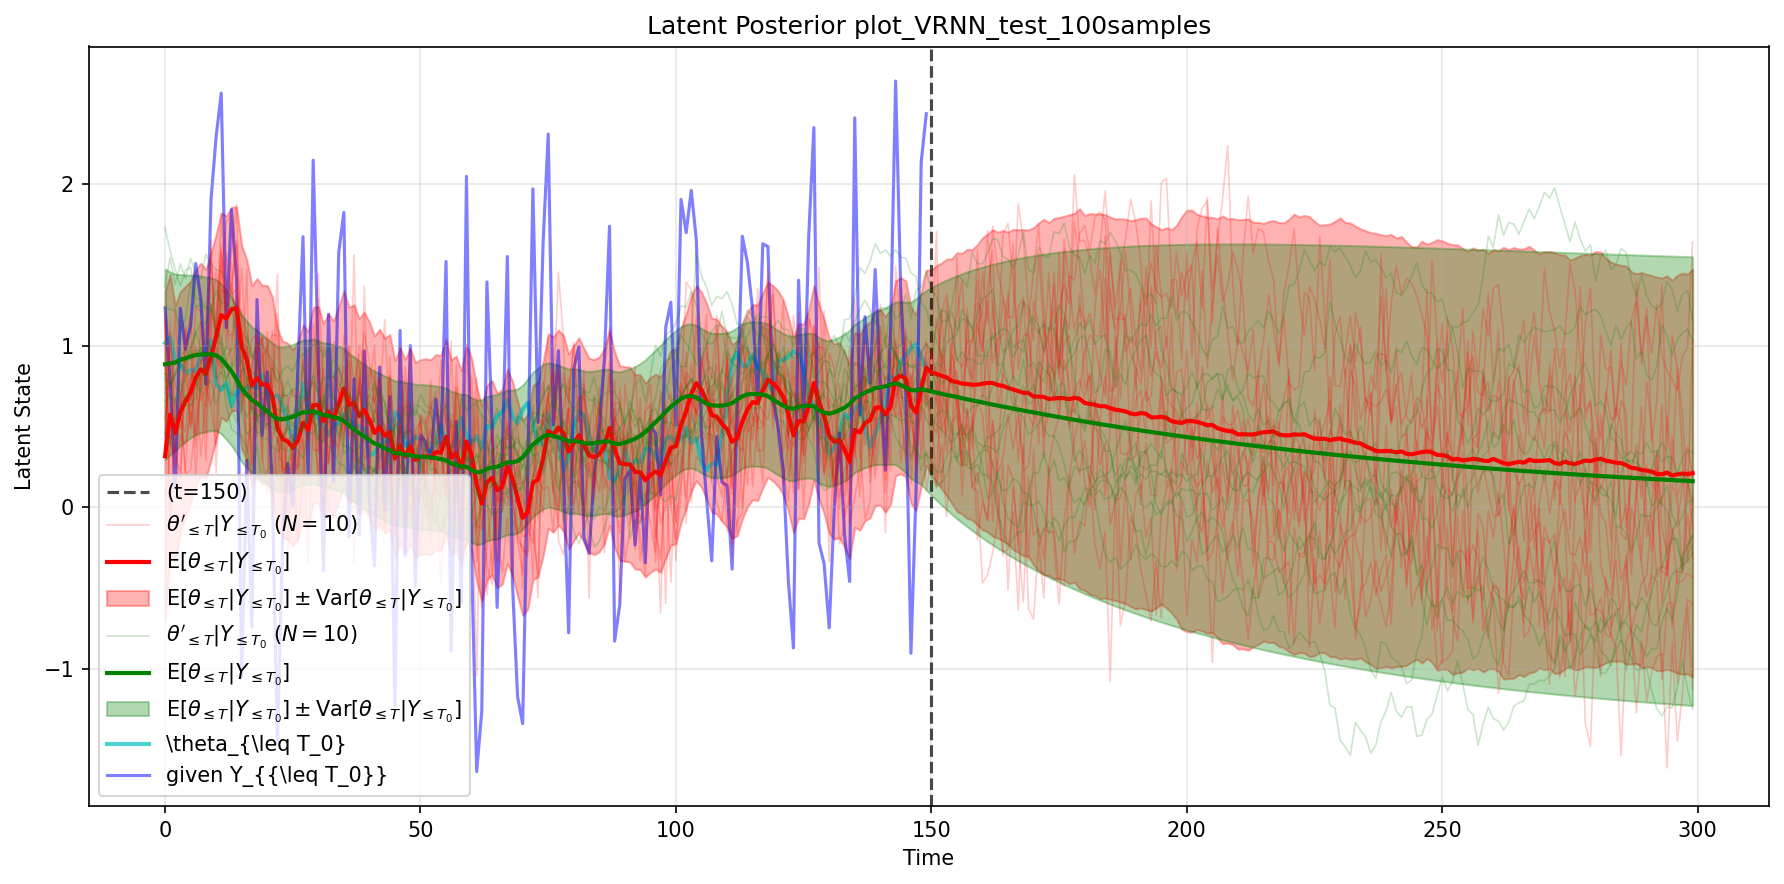
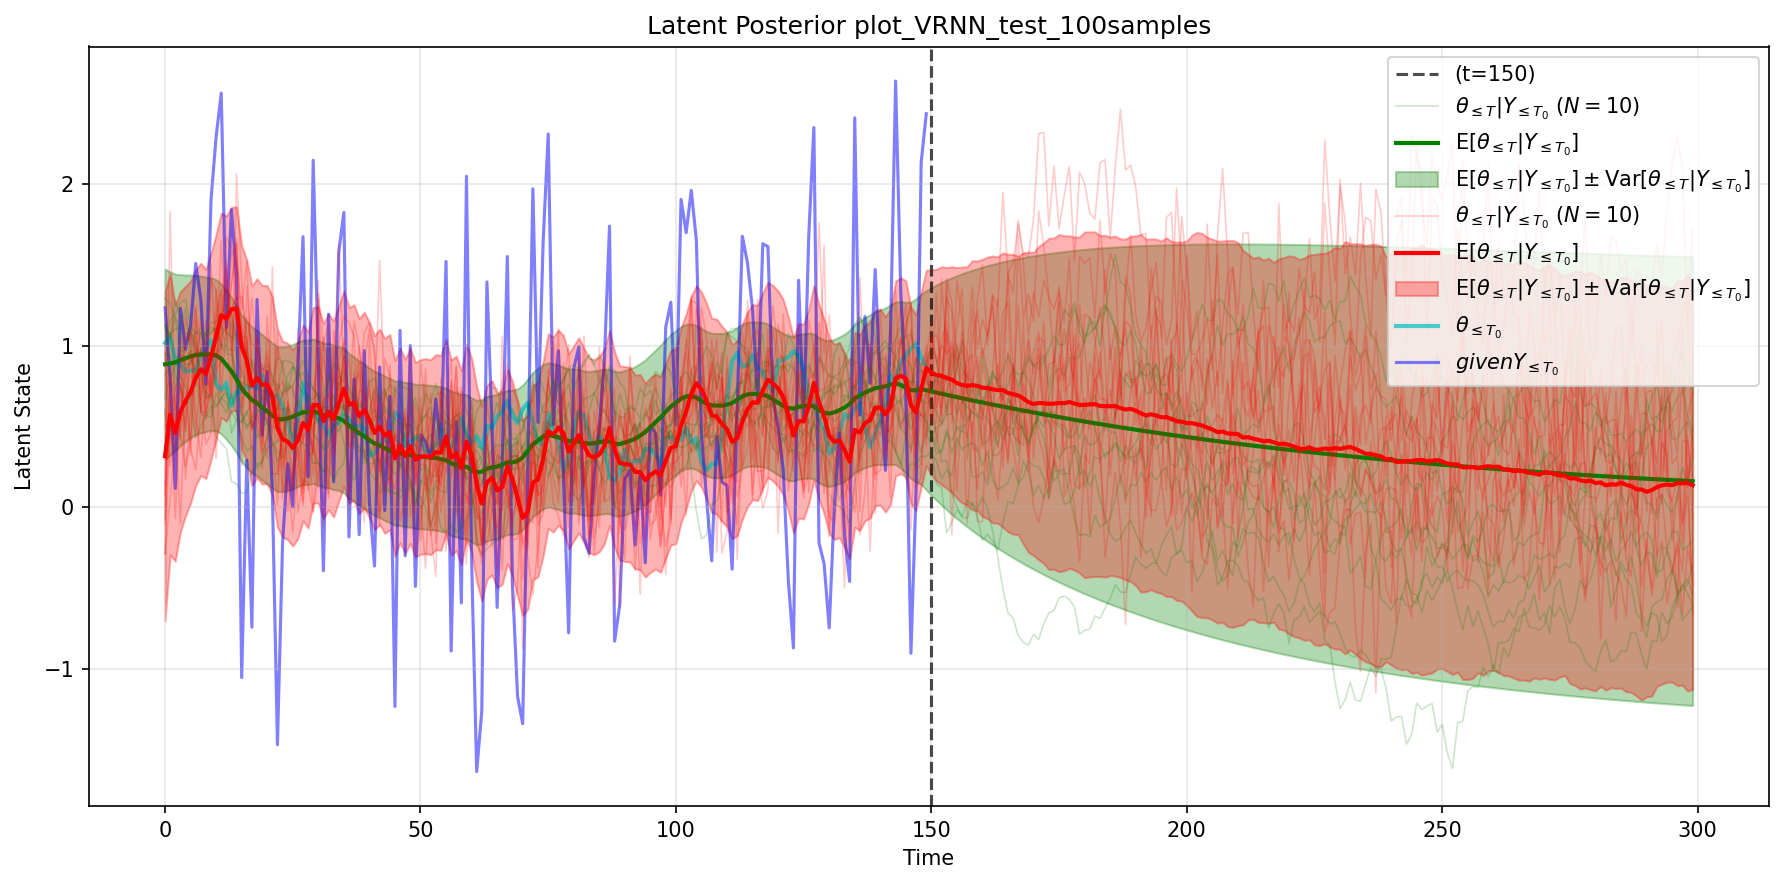
250930_eval

diff --git a/generative_ts/eval.py b/generative_ts/eval.py
@@ -8,95 +8,7 @@ from datetime import datetime
 
 def plot_posterior_y(model, save_path, epoch, model_name=None, dataset_path=None, idx=0, ratio=0.5, N_samples = 100):
 
-
-    # ---------------- 0) get model, data ----------------
-    if model_name is None:  model_name = model.__class__.__name__
-    if hasattr(model, 'eval'):  model.eval()
-
-    data_file = os.path.join(dataset_path, 'data.pth')
-    data = torch.load(data_file, weights_only=False)
-    Y_test, t_test = data['Y_test'], data.get('t_test', None)
-
-    y_sample = Y_test[idx]
-    t_sample = t_test[idx] if t_test is not None else np.arange(len(y_sample))
-
-    T = len(y_sample)
-    t_0 = int(ratio * T)
-
-    print(f"Sample {idx}: T_data={T}, t_0={t_0}, T={T}, N={N_samples}")
-
-
-    # ---------------- 1) call posterior ----------------
-    with torch.no_grad():
-        device = next(model.parameters()).device if hasattr(model, 'parameters') else 'cpu'
-        y_given = torch.tensor(y_sample[:t_0], dtype=torch.float32, device=device)
-
-        # Get data posterior model
-        config_path = os.path.join(dataset_path, 'config.json')
-        if dataset_path and 'ar1' in dataset_path.lower():
-            from .dataset.ar1 import AR1_ts
-            data_model = AR1_ts(config_path=config_path)
-        elif dataset_path and 'gp' in dataset_path.lower():
-            from .dataset.gp import GP_ts
-            data_model = GP_ts(config_path=config_path)
-
-        
-        y_model_input = y_given.unsqueeze(-1).unsqueeze(1) if y_given.dim() == 1 else y_given.unsqueeze(1) if y_given.dim() == 2 else y_given # Model input (T_0, 1, 1)
-        y_data_input = y_given.squeeze() if y_given.dim() > 1 else y_given # Data model inpur (T_0,)
-
-        post_model = model.posterior_y(y_model_input, T, N=N_samples)
-        post_data = data_model.posterior_y(y_data_input, T, N=N_samples)
-    
-
-    # ---------------- 2) make posterior plot ----------------   
-    plt.figure(figsize=(12, 6))
-    time_t_0 = np.arange(t_0) 
-    time_t_0_to_T = np.arange(t_0, T)
-    time_T = np.arange(T)
-    
-    # Y_{:t_0}
-    plt.plot(time_t_0, y_sample[:t_0], 'b-', linewidth=2, label='Data', alpha=0.5, zorder=3)
-    plt.axvline(x=t_0, color='black', linestyle='--', alpha=0.7, linewidth=1.5, label=f'(t={t_0})')
-    
-    for c, post in {'r' : post_model, 'g' : post_data}.items():
-
-        # Y'_{:T} | Y_{:t_0}
-        samples = post['x_samples']
-        for i in range(min(10, N_samples)):
-            plt.plot(time_T, samples[i].squeeze(), c, alpha=0.2, linewidth=0.8)
-        if N_samples > 0:   plt.plot([], [], c, alpha=0.2, linewidth=0.8, label=f"$Y'_{{\\leq T}} | Y_{{\\leq T_0}}$ ($N={min(10, N_samples)}$)")
-
-        # E[Y_{:T} | Y_{:t_0}]
-        mean_traj = post['mean_samples'].squeeze()
-        std_traj = post['var_samples'].squeeze()
-
-        plt.plot(time_T, mean_traj, c + '-', linewidth=2, label=f"$\\mathrm{{E}}[Y_{{\\leq T}} | Y_{{\\leq T_0}}]$")
-
-        # Var[Y_{:T} | Y_{:t_0}]
-        plt.fill_between(time_T,
-                        mean_traj - 2*std_traj,
-                        mean_traj + 2*std_traj,
-                        alpha=0.3, color=c, label=f"$\\mathrm{{E}}[Y_{{\\leq T}} | Y_{{\\leq T_0}}] \\pm \\text{{Var}}[Y_{{\\leq T}} | Y_{{\\leq T_0}}]$")
-    
-
-    plt.xlabel('Time')
-    plt.ylabel('Latent State')
-    plt.title(f'Posterior plot_{model_name}_{epoch}_{N_samples}samples')
-    plt.legend()
-    plt.grid(True, alpha=0.3)
-    try:    plt.tight_layout()
-    except Exception:   pass
-    
-    # Save
-    os.makedirs(save_path, exist_ok=True)
-    save_file = os.path.join(save_path, f'posterior_{model_name}_{epoch}_{N_samples}samples.png')
-    plt.savefig(save_file, dpi=150, bbox_inches='tight')
-    plt.close()
-
-
-
-
-def plot_posterior(model, save_path, epoch, model_name=None, dataset_path=None, idx=0, ratio=0.5, N_samples=100):
+    posts = {}
 
     # ---------------- 0) get model, data ----------------
     if model_name is None:  model_name = model.__class__.__name__
@@ -123,21 +35,129 @@ def plot_posterior(model, save_path, epoch, model_name=None, dataset_path=None, 
         device = next(model.parameters()).device if hasattr(model, 'parameters') else 'cpu'
         y_given = torch.tensor(y_sample[:t_0], dtype=torch.float32, device=device)
 
-        # Get data posterior model
-        config_path = os.path.join(dataset_path, 'config.json')
-        if dataset_path and 'ar1' in dataset_path.lower():
-            from .dataset.ar1 import AR1_ts
-            data_model = AR1_ts(config_path=config_path)
-        elif dataset_path and 'gp' in dataset_path.lower():
-            from .dataset.gp import GP_ts
-            data_model = GP_ts(config_path=config_path)
+        if model_name.lower().replace('_ts','') in ['vrnn', 'lode', 'ls4']:
+            # Get data posterior model
+            config_path = os.path.join(dataset_path, 'config.json')
+            if dataset_path and 'ar1' in dataset_path.lower():
+                from .dataset.ar1 import AR1_ts
+                data_model_name, data_model = 'AR1', AR1_ts(config_path=config_path)
+            elif dataset_path and 'gp' in dataset_path.lower():
+                from .dataset.gp import GP_ts
+                data_model_name, data_model = 'GP', GP_ts(config_path=config_path)
 
-        # Model input shape: (T_0, 1, 1) for LS4/VRNN/LatentODE
+            y_data_input = y_given.squeeze() if y_given.dim() > 1 else y_given # Data model input (T_0,)
+            post_data = data_model.posterior_y(y_data_input, T, N=N_samples)
+            posts[data_model_name.lower().replace('_ts','')] = post_data
+
         y_model_input = y_given.unsqueeze(-1).unsqueeze(1) if y_given.dim() == 1 else y_given.unsqueeze(1) if y_given.dim() == 2 else y_given # Model input (T_0, 1, 1)
-        y_data_input = y_given.squeeze() if y_given.dim() > 1 else y_given # Data model input (T_0,)
+        post_model = model.posterior_y(y_model_input, T, N=N_samples)
+        posts[model_name.lower().replace('_ts','')] = post_model
+    
 
+    # ---------------- 2) make posterior plot ----------------
+    plt.figure(figsize=(12, 6))
+    time_t_0 = np.arange(t_0)
+    time_t_0_to_T = np.arange(t_0, T)
+    time_T = np.arange(T)
+
+    # Conditioning boundary
+    plt.axvline(x=t_0, color='black', linestyle='--', alpha=0.7, linewidth=1.5, label=f'(t={t_0})')
+
+    for name, post in posts.items():
+
+        c = 'r' if name in ['vrnn', 'lode', 'ls4'] else 'g' if name in ['gp', 'ar1'] else 'b'
+
+        # Y'_{:T} | Y_{:t_0}
+        samples = post['x_samples']
+        for i in range(min(10, N_samples)):
+            plt.plot(time_T, samples[i].squeeze(), c, alpha=0.2, linewidth=0.8)
+        if N_samples > 0:   plt.plot([], [], c, alpha=0.2, linewidth=0.8, label=f"$Y'_{{\\leq T}} | Y_{{\\leq T_0}}$ ($N={min(10, N_samples)}$)")
+
+        # E[Y_{:T} | Y_{:t_0}]
+        mean_traj = post['mean_samples'].squeeze()
+        std_traj = post['var_samples'].squeeze()
+
+        plt.plot(time_T, mean_traj, c + '-', linewidth=2, label=f"$\\mathrm{{E}}[Y_{{\\leq T}} | Y_{{\\leq T_0}}]$")
+
+        # Var[Y_{:T} | Y_{:t_0}]
+        plt.fill_between(time_T,
+                        mean_traj - 2*std_traj,
+                        mean_traj + 2*std_traj,
+                        alpha=0.3, color=c, label=f"$\\mathrm{{E}}[Y_{{\\leq T}} | Y_{{\\leq T_0}}] \\pm \\text{{Var}}[Y_{{\\leq T}} | Y_{{\\leq T_0}}]$")
+
+    # Real theta (cyan solid line) - only up to t_0, behind everything
+    if theta_sample is not None:
+        plt.plot(time_t_0, theta_sample[:t_0], 'c-', linewidth=2, label=f'$\\theta_{{\\leq T_0}}$', alpha=0.7, zorder=1)
+
+    # Y data (blue solid line) - only up to t_0, behind everything
+    plt.plot(time_t_0, y_sample[:t_0], 'b-', linewidth=1.5, label=f'$given Y_{{\\leq T_0}}$', alpha=0.5, zorder=1)
+
+    plt.xlabel('Time')
+    plt.ylabel('Observation')
+    plt.title(f'Posterior plot_{model_name}_{epoch}_{N_samples}samples')
+    plt.legend()
+    plt.grid(True, alpha=0.3)
+    try:    plt.tight_layout()
+    except Exception:   pass
+    
+    # Save
+    os.makedirs(save_path, exist_ok=True)
+    save_file = os.path.join(save_path, f'posterior_{model_name}_{epoch}_{N_samples}samples.png')
+    plt.savefig(save_file, dpi=150, bbox_inches='tight')
+    plt.close()
+
+
+
+
+def plot_posterior(model, save_path, epoch, model_name=None, dataset_path=None, idx=0, ratio=0.5, N_samples=100):
+
+    posts = {}
+
+    # ---------------- 0) get model, data ----------------
+    if model_name is None:  model_name = model.__class__.__name__
+    if hasattr(model, 'eval'):  model.eval()
+
+    data_file = os.path.join(dataset_path, 'data.pth')
+    data = torch.load(data_file, weights_only=False)
+    Y_test = data['Y_test']
+    theta_test = data.get('theta_test', None)
+    t_test = data.get('t_test', None)
+
+    y_sample = Y_test[idx]
+    theta_sample = theta_test[idx] if theta_test is not None else None
+    t_sample = t_test[idx] if t_test is not None else np.arange(len(y_sample))
+
+    T = len(y_sample)
+    t_0 = int(ratio * T)
+
+    print(f"Sample {idx}: T_data={T}, t_0={t_0}, T={T}, N={N_samples}")
+
+
+    # ---------------- 1) call posterior ----------------
+    with torch.no_grad():
+        device = next(model.parameters()).device if hasattr(model, 'parameters') else 'cpu'
+        y_given = torch.tensor(y_sample[:t_0], dtype=torch.float32, device=device)
+
+        if model_name.lower().replace('_ts','') in ['vrnn', 'lode', 'ls4']:
+            # Get data posterior model
+            config_path = os.path.join(dataset_path, 'config.json')
+            if dataset_path and 'ar1' in dataset_path.lower():
+                from .dataset.ar1 import AR1_ts
+                data_model_name, data_model = 'AR1', AR1_ts(config_path=config_path)
+            elif dataset_path and 'gp' in dataset_path.lower():
+                from .dataset.gp import GP_ts
+                data_model_name, data_model = 'GP', GP_ts(config_path=config_path)
+            
+            
+            y_data_input = y_given.squeeze() if y_given.dim() > 1 else y_given # Data model input (T_0,)
+            post_data = data_model.posterior(y_data_input, T, N=N_samples)
+            posts[data_model_name.lower().replace('_ts','')] = post_data
+
+        
+        y_model_input = y_given.unsqueeze(-1).unsqueeze(1) if y_given.dim() == 1 else y_given.unsqueeze(1) if y_given.dim() == 2 else y_given # Model input (T_0, 1, 1)
         post_model = model.posterior(y_model_input, T, N=N_samples)
-        post_data = data_model.posterior(y_data_input, T, N=N_samples)
+        posts[model_name.lower().replace('_ts','')] = post_model
+    
 
 
     # ---------------- 2) make posterior plot ----------------
@@ -149,13 +169,15 @@ def plot_posterior(model, save_path, epoch, model_name=None, dataset_path=None, 
     # Conditioning boundary
     plt.axvline(x=t_0, color='black', linestyle='--', alpha=0.7, linewidth=1.5, label=f'(t={t_0})')
 
-    for c, post in {'r': post_model, 'g': post_data}.items():
+    for name, post in posts.items():
 
+        c = 'r' if name in ['vrnn', 'lode', 'ls4'] else 'g' if name in ['gp', 'ar1'] else 'b'
+        
         # z_{:T} | x_{:t_0}
         samples = post.get('z_samples')
         for i in range(min(10, N_samples)):
             plt.plot(time_T, samples[i].squeeze(), c, alpha=0.2, linewidth=0.8)
-        if N_samples > 0:   plt.plot([], [], c, alpha=0.2, linewidth=0.8, label=f"$\\theta'_{{\\leq T}} | Y_{{\\leq T_0}}$ ($N={min(10, N_samples)}$)")
+        if N_samples > 0:   plt.plot([], [], c, alpha=0.2, linewidth=0.8, label=f"$\\theta_{{\\leq T}} | Y_{{\\leq T_0}}$ ($N={min(10, N_samples)}$)")
 
         # E[z_{:T} | x_{:t_0}]
         mean_traj = post.get('z_mean').squeeze()
@@ -171,10 +193,10 @@ def plot_posterior(model, save_path, epoch, model_name=None, dataset_path=None, 
 
     # Real theta (cyan solid line) - only up to t_0, behind everything
     if theta_sample is not None:
-        plt.plot(time_t_0, theta_sample[:t_0], 'c-', linewidth=2, label=f'\\theta_{{\\leq T_0}}', alpha=0.7, zorder=1)
+        plt.plot(time_t_0, theta_sample[:t_0], 'c-', linewidth=2, label=f'$\\theta_{{\\leq T_0}}$', alpha=0.7, zorder=1)
 
     # Y data (blue solid line) - only up to t_0, behind everything
-    plt.plot(time_t_0, y_sample[:t_0], 'b-', linewidth=1.5, label='given Y_{{\\leq T_0}}', alpha=0.5, zorder=1)
+    plt.plot(time_t_0, y_sample[:t_0], 'b-', linewidth=1.5, label=f'$given Y_{{\\leq T_0}}$', alpha=0.5, zorder=1)
 
     plt.xlabel('Time')
     plt.ylabel('Latent State')
